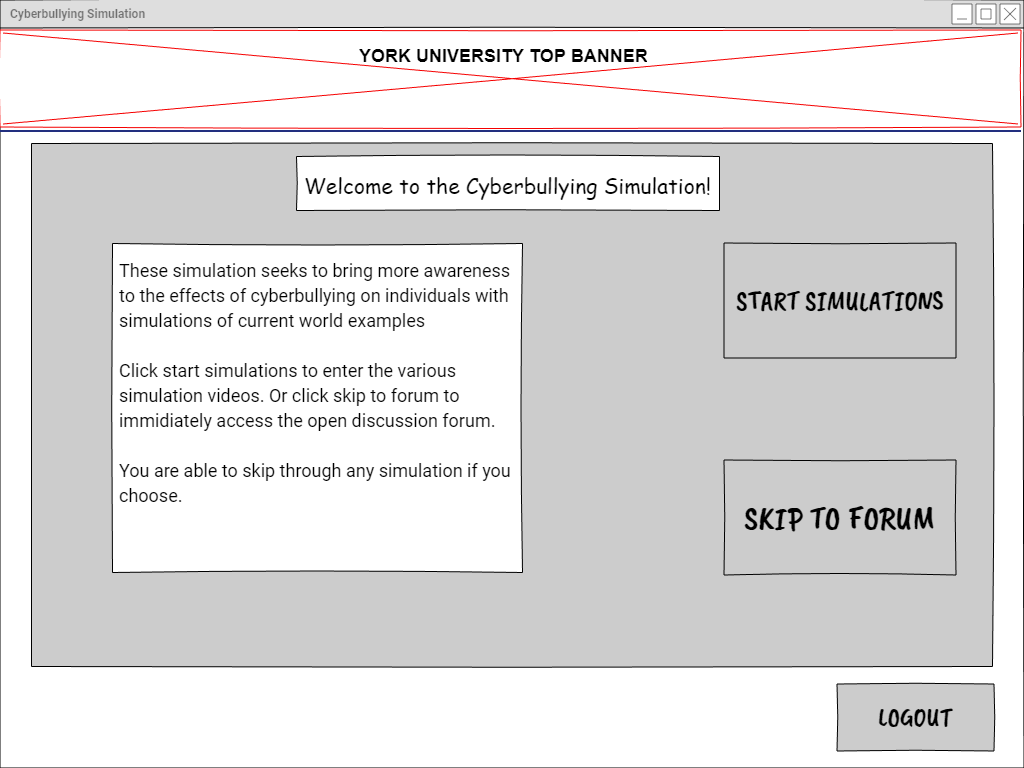
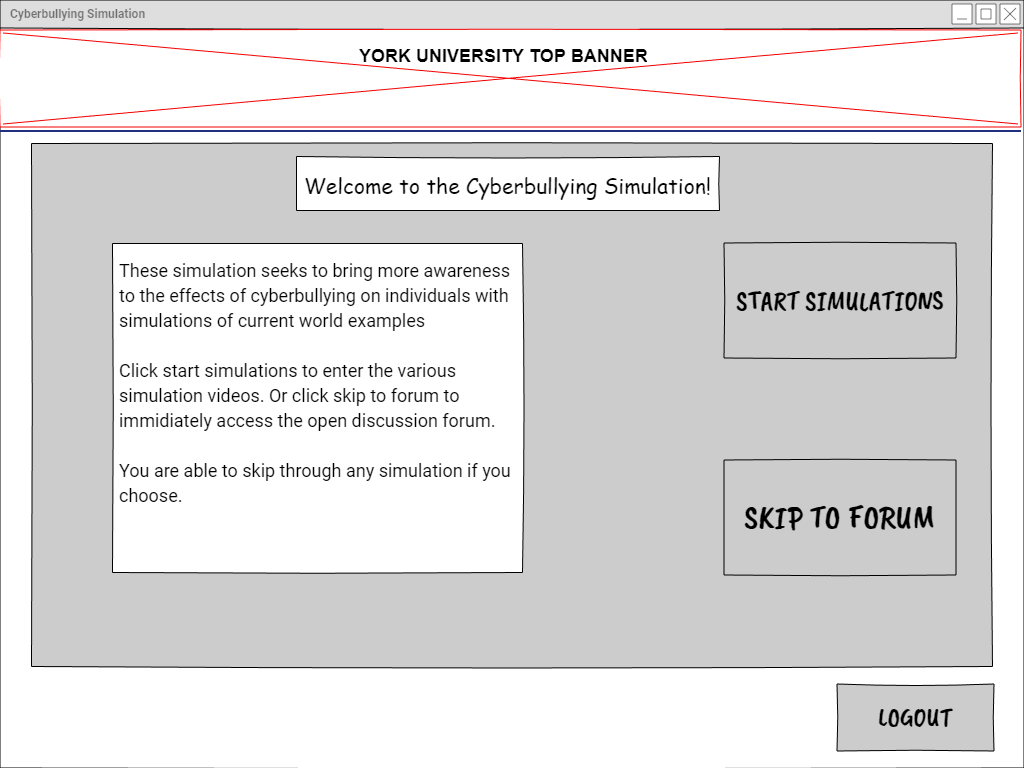
changed again

diff --git a/index.html b/index.html
@@ -1,2 +1,2 @@
 <html xmlns="http://www.w3.org/1999/xhtml" xmlns:p="http://www.evolus.vn/Namespace/Pencil" xmlns:html="http://www.w3.org/1999/xhtml"><head><meta http-equiv="Content-Type" content="text/html; charset=UTF-8" />
-<title>EECS3461-Ass3-LofiPrototype</title><link rel="stylesheet" href="Resources/SampleStyle.css" /></head><body><h1 id="documentTitle">EECS3461-Ass3-LofiPrototype</h1><p id="documentMetadata">Exported at: Sun Apr 12 2020 14:43:12 GMT-0400 (Eastern Daylight Time)</p><div class="Page" id="login_page_page"><h2>Login Page</h2><div class="ImageContainer"><img src="pages\login_page.png" width="NaN" height="NaN" usemap="#map_login_page" /></div><map name="map_login_page"><area shape="rect" coords="448,401,576,455" href="#homepage_page" title="Go to page 'Homepage'" /></map></div><div class="Page" id="homepage_page"><h2>Homepage</h2><div class="ImageContainer"><img src="pages\homepage.png" width="NaN" height="NaN" usemap="#map_homepage" /></div><map name="map_homepage"><area shape="rect" coords="837,683.25,994.75,751" href="#login_page_page" title="Go to page 'Login Page'" /><area shape="rect" coords="724,243,956,358" href="#disclaimer_page_page" title="Go to page 'Disclaimer Page'" /></map></div><div class="Page" id="disclaimer_page_page"><h2>Disclaimer Page</h2><div class="ImageContainer"><img src="pages\disclaimer_page.png" width="NaN" height="NaN" usemap="#map_disclaimer_page" /></div><map name="map_disclaimer_page"><area shape="rect" coords="54.25,196,142,269.75" href="#homepage_page" title="Go to page 'Homepage'" /><area shape="rect" coords="390,442,616,507" href="#simulation_page" title="Go to page 'Simulation'" /></map></div><div class="Page" id="simulation_page"><h2>Simulation</h2><div class="ImageContainer"><img src="pages\simulation.png" width="NaN" height="NaN" usemap="#map_simulation" /></div><map name="map_simulation"><area shape="rect" coords="821,680.25,978.75,748" href="#login_page_page" title="Go to page 'Login Page'" /><area shape="rect" coords="60,159.25,158,182" href="#forum_main_page_page" title="Go to page 'Forum Main Page'" /><area shape="rect" coords="60,580.25,212,647.5" href="#homepage_page" title="Go to page 'Homepage'" /><area shape="rect" coords="826,581,978,646" href="#forum_main_page_page" title="Go to page 'Forum Main Page'" /></map></div><div class="Page" id="forum_main_page_page"><h2>Forum Main Page</h2><div class="ImageContainer"><img src="pages\forum_main_page.png" width="NaN" height="NaN" usemap="#map_forum_main_page" /></div><map name="map_forum_main_page"><area shape="rect" coords="819,689.25,976.75,757" href="#login_page_page" title="Go to page 'Login Page'" /><area shape="rect" coords="422,175.25,602,214" href="#homepage_page" title="Go to page 'Homepage'" /><area shape="rect" coords="767,314.25,976,362.75" href="#create_new_post_page" title="Go to page 'Create New Post'" /><area shape="rect" coords="145,397,873,618" href="#forum_post_view_page" title="Go to page 'Forum Post View'" /></map></div><div class="Page" id="forum_post_view_page"><h2>Forum Post View</h2><div class="ImageContainer"><img src="pages\forum_post_view.png" width="NaN" height="NaN" usemap="#map_forum_post_view" /></div><map name="map_forum_post_view"><area shape="rect" coords="70,151.6199493408203,188,198.725524902344" href="#forum_main_page_page" title="Go to page 'Forum Main Page'" /></map></div><div class="Page" id="create_new_post_page"><h2>Create New Post</h2><div class="ImageContainer"><img src="pages\create_new_post.png" width="NaN" height="NaN" usemap="#map_create_new_post" /></div><map name="map_create_new_post"><area shape="rect" coords="795,516,913,572" href="#forum_main_page_page" title="Go to page 'Forum Main Page'" /><area shape="rect" coords="71,164.6199493408203,189,211.725524902344" href="#forum_main_page_page" title="Go to page 'Forum Main Page'" /></map></div></body></html>
+<title>EECS3461-Ass3-LofiPrototype</title><link rel="stylesheet" href="Resources/SampleStyle.css" /></head><body><h1 id="documentTitle">EECS3461-Ass3-LofiPrototype</h1><p id="documentMetadata">Exported at: Mon Apr 13 2020 14:21:48 GMT-0400 (Eastern Daylight Time)</p><div class="Page" id="login_page_page"><h2>Login Page</h2><div class="ImageContainer"><img src="pages\login_page.png" width="NaN" height="NaN" usemap="#map_login_page" /></div><map name="map_login_page"><area shape="rect" coords="448,401,576,455" href="#homepage_page" title="Go to page 'Homepage'" /></map></div><div class="Page" id="homepage_page"><h2>Homepage</h2><div class="ImageContainer"><img src="pages\homepage.png" width="NaN" height="NaN" usemap="#map_homepage" /></div><map name="map_homepage"><area shape="rect" coords="837,684,994,751" href="#login_page_page" title="Go to page 'Login Page'" /><area shape="rect" coords="724,242.25,956.75,358.75" href="#disclaimer_page_page" title="Go to page 'Disclaimer Page'" /></map></div><div class="Page" id="disclaimer_page_page"><h2>Disclaimer Page</h2><div class="ImageContainer"><img src="pages\disclaimer_page.png" width="NaN" height="NaN" usemap="#map_disclaimer_page" /></div><map name="map_disclaimer_page"><area shape="rect" coords="55,195.25,142,269" href="#homepage_page" title="Go to page 'Homepage'" /><area shape="rect" coords="390,440.5,616,507.75" href="#simulation_page" title="Go to page 'Simulation'" /></map></div><div class="Page" id="simulation_page"><h2>Simulation</h2><div class="ImageContainer"><img src="pages\simulation.png" width="NaN" height="NaN" usemap="#map_simulation" /></div><map name="map_simulation"><area shape="rect" coords="821,680.25,978,748" href="#login_page_page" title="Go to page 'Login Page'" /><area shape="rect" coords="60,159.25,158,182.75" href="#forum_main_page_page" title="Go to page 'Forum Main Page'" /><area shape="rect" coords="60,580.25,212.75,646" href="#homepage_page" title="Go to page 'Homepage'" /><area shape="rect" coords="826,581,978,646.75" href="#forum_main_page_page" title="Go to page 'Forum Main Page'" /></map></div><div class="Page" id="forum_main_page_page"><h2>Forum Main Page</h2><div class="ImageContainer"><img src="pages\forum_main_page.png" width="NaN" height="NaN" usemap="#map_forum_main_page" /></div><map name="map_forum_main_page"><area shape="rect" coords="819,689.25,976,757.75" href="#login_page_page" title="Go to page 'Login Page'" /><area shape="rect" coords="422,176,602,214.75" href="#homepage_page" title="Go to page 'Homepage'" /><area shape="rect" coords="767,315,976,362.75" href="#create_new_post_page" title="Go to page 'Create New Post'" /><area shape="rect" coords="145,396.75,873,616.5" href="#forum_post_view_page" title="Go to page 'Forum Post View'" /></map></div><div class="Page" id="forum_post_view_page"><h2>Forum Post View</h2><div class="ImageContainer"><img src="pages\forum_post_view.png" width="NaN" height="NaN" usemap="#map_forum_post_view" /></div><map name="map_forum_post_view"><area shape="rect" coords="70,151.6199493408203,188,198.725524902344" href="#forum_main_page_page" title="Go to page 'Forum Main Page'" /></map></div><div class="Page" id="create_new_post_page"><h2>Create New Post</h2><div class="ImageContainer"><img src="pages\create_new_post.png" width="NaN" height="NaN" usemap="#map_create_new_post" /></div><map name="map_create_new_post"><area shape="rect" coords="795,516,913,572" href="#forum_main_page_page" title="Go to page 'Forum Main Page'" /><area shape="rect" coords="71,164.6199493408203,189,211.725524902344" href="#forum_main_page_page" title="Go to page 'Forum Main Page'" /></map></div><div class="Page" id="replying_page"><h2>Replying</h2><div class="ImageContainer"><img src="pages\replying.png" width="NaN" height="NaN" usemap="#map_replying" /></div><map name="map_replying"><area shape="rect" coords="71,164.6199493408203,189,211.725524902344" href="#forum_main_page_page" title="Go to page 'Forum Main Page'" /></map></div><div class="Page" id="postcomments_page"><h2>Post&amp;comments</h2><div class="ImageContainer"><img src="pages\postcomments.png" width="NaN" height="NaN" usemap="#map_postcomments" /></div><map name="map_postcomments"><area shape="rect" coords="144,390.4132995605469,248,421.817016601563" href="#forum_main_page_page" title="Go to page 'Forum Main Page'" /><area shape="rect" coords="71,164.6199493408203,189,211.725524902344" href="#forum_main_page_page" title="Go to page 'Forum Main Page'" /></map></div><div class="Page" id="profile_page"><h2>Profile</h2><div class="ImageContainer"><img src="pages\profile.png" width="NaN" height="NaN" usemap="#map_profile" /></div><map name="map_profile"><area shape="rect" coords="373,216.6199493408203,491,263.725524902344" href="#forum_main_page_page" title="Go to page 'Forum Main Page'" /><area shape="rect" coords="67,172.6199493408203,185,219.725524902344" href="#forum_main_page_page" title="Go to page 'Forum Main Page'" /></map></div></body></html>
